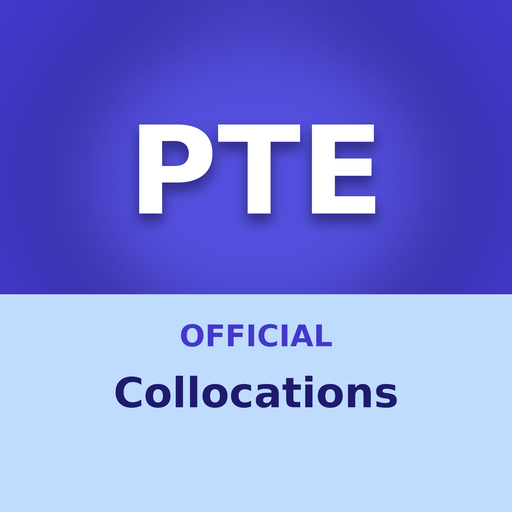
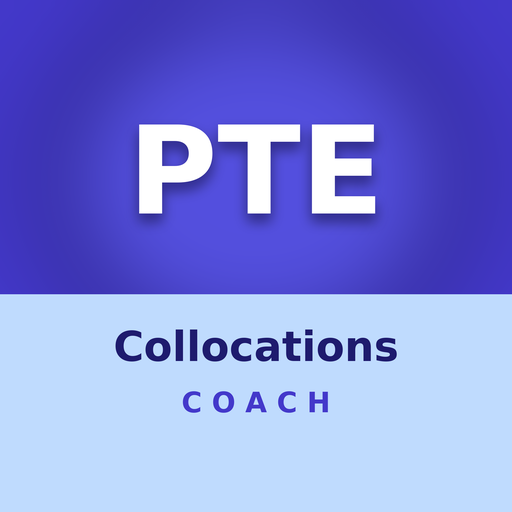
Add files via upload

Changed region(s): [[0.2188, 0.625, 0.7812, 0.8125]]

diff --git a/collocations/index.html b/collocations/index.html
@@ -8,7 +8,7 @@
 <meta name="theme-color" content="#4338CA">
 <link rel="apple-touch-icon" href="icon-192.png">
 <meta name="apple-mobile-web-app-capable" content="yes">
-<title>PTE Official Collocations</title>
+<title>PTE Collocations Coach</title>
 <link rel="preconnect" href="https://fonts.googleapis.com">
 <link rel="preconnect" href="https://fonts.gstatic.com" crossorigin>
 <link href="https://fonts.googleapis.com/css2?family=Atkinson+Hyperlegible:wght@400;700&family=Bricolage+Grotesque:opsz,wght@12..96,500;12..96,700&display=swap" rel="stylesheet">
@@ -216,14 +216,14 @@ nav{justify-content:flex-start}nav button{flex:1;max-width:none;font-weight:700;
 <body>
 <div class="wrap">
 <header>
-  <h1><span class="a">PTE</span><span class="b">Official Collocations</span></h1>
+  <h1><span class="a">PTE</span><span class="b">Collocations Coach</span></h1>
   <button class="avatar" id="avatarBtn" aria-label="Open or close your profile"></button>
 </header>
 <nav id="nav" role="tablist">
   <button role="tab" data-tab="play" aria-selected="false">Play &amp; Learn</button>
 </nav>
 <main id="main"></main>
-<p class="tiny foot" style="margin-top:28px">PTE Official Collocations is an independent study app based on Pearson's Academic Collocation List (version 2/2025); it is not made by Pearson. Wrong options in the quizzes are words that are not paired in the list, so always pick the partner the list gives. <a href="privacy.html">Privacy policy</a> · <a href="delete-account.html">Delete your account</a></p>
+<p class="tiny foot" style="margin-top:28px">PTE Collocations Coach is an independent study app based on Pearson's Academic Collocation List (version 2/2025); it is not made by Pearson. Wrong options in the quizzes are words that are not paired in the list, so always pick the partner the list gives. <a href="privacy.html">Privacy policy</a> · <a href="delete-account.html">Delete your account</a></p>
 </div>
 <script src="firebase-config.js" onerror="void 0"></script>
 <script src="https://cdn.jsdelivr.net/npm/firebase@12.19.0/firebase-app-compat.js"></script>
@@ -692,7 +692,7 @@ function busy(btn,on,label){btn.disabled=on;if(label)btn.textContent=label;}
 const val=id=>document.getElementById(id).value.trim();
 
 function showLogin(note){
-  authShell(`<h2>Log in</h2><p class="muted">Welcome to PTE Official Collocations. Log in to keep your progress on every device.</p>
+  authShell(`<h2>Log in</h2><p class="muted">Welcome to PTE Collocations Coach. Log in to keep your progress on every device.</p>
    ${!FB_CFG?`<div class="amsg">Accounts aren't connected yet, so you can't log in on this copy of the app. You can still use everything without an account.</div><button class="btn" id="guest" style="width:100%;margin-top:10px">Continue without an account</button>`:''}
    ${field('lid','User ID (your email)','email','autocomplete="username" inputmode="email"')}
    ${pwField('lpw','Password','current-password')}

diff --git a/collocations/privacy.html b/collocations/privacy.html
@@ -1,10 +1,10 @@
 <!DOCTYPE html><html lang="en"><head><meta charset="utf-8"><meta name="viewport" content="width=device-width,initial-scale=1"><meta name="color-scheme" content="light only">
 <style>body{font-family:"Segoe UI",Verdana,Arial,sans-serif;background:#F6F7FB;color:#111827;line-height:1.6;margin:0}main{max-width:760px;margin:0 auto;padding:24px 18px 60px}
 h1{font-size:28px;margin:0 0 4px}h2{font-size:20px;margin:28px 0 6px}a{color:#4338CA}.box{background:#fff;border:1px solid #CBD5E1;border-radius:14px;padding:18px 20px}
-.tiny{color:#4B5563;font-size:14px}li{margin:4px 0}.back{display:inline-block;margin-bottom:14px}</style><title>Privacy policy · PTE Official Collocations</title></head><body><main>
+.tiny{color:#4B5563;font-size:14px}li{margin:4px 0}.back{display:inline-block;margin-bottom:14px}</style><title>Privacy policy · PTE Collocations Coach</title></head><body><main>
 <a class="back" href="./">‹ Back to the app</a>
-<div class="box"><h1>Privacy policy</h1><p class="tiny">PTE Official Collocations · Last updated: 29 September 2026</p>
-<p>PTE Official Collocations ("the app") is an independent study app for learning the collocations in Pearson's Academic Collocation List. It is not made by or connected to Pearson. This policy explains what information the app collects and how it is used.</p>
+<div class="box"><h1>Privacy policy</h1><p class="tiny">PTE Collocations Coach · Last updated: 29 September 2026</p>
+<p>PTE Collocations Coach ("the app") is an independent study app for learning the collocations in Pearson's Academic Collocation List. It is not made by or connected to Pearson. This policy explains what information the app collects and how it is used.</p>
 <h2>Information we collect</h2>
 <ul><li><b>Account details you give us:</b> first name, last name, email address, country code and mobile number, and your password (stored securely by Google Firebase; we never see it).</li>
 <li><b>Profile picture</b>, if you choose to add one.</li>

diff --git a/collocations/delete-account.html b/collocations/delete-account.html
@@ -1,9 +1,9 @@
 <!DOCTYPE html><html lang="en"><head><meta charset="utf-8"><meta name="viewport" content="width=device-width,initial-scale=1"><meta name="color-scheme" content="light only">
 <style>body{font-family:"Segoe UI",Verdana,Arial,sans-serif;background:#F6F7FB;color:#111827;line-height:1.6;margin:0}main{max-width:760px;margin:0 auto;padding:24px 18px 60px}
 h1{font-size:28px;margin:0 0 4px}h2{font-size:20px;margin:28px 0 6px}a{color:#4338CA}.box{background:#fff;border:1px solid #CBD5E1;border-radius:14px;padding:18px 20px}
-.tiny{color:#4B5563;font-size:14px}li{margin:4px 0}.back{display:inline-block;margin-bottom:14px}</style><title>Delete your account · PTE Official Collocations</title></head><body><main>
+.tiny{color:#4B5563;font-size:14px}li{margin:4px 0}.back{display:inline-block;margin-bottom:14px}</style><title>Delete your account · PTE Collocations Coach</title></head><body><main>
 <a class="back" href="./">‹ Back to the app</a>
-<div class="box"><h1>Delete your account</h1><p class="tiny">PTE Official Collocations</p>
+<div class="box"><h1>Delete your account</h1><p class="tiny">PTE Collocations Coach</p>
 <h2>In the app (fastest)</h2>
 <ol><li>Log in and tap your <b>profile picture</b> at the top right.</li><li>Tap <b>Delete my account</b>.</li><li>Enter your password, type DELETE and confirm.</li></ol>
 <p>Your account is deleted immediately.</p>

diff --git a/collocations/sw.js b/collocations/sw.js
@@ -1,4 +1,4 @@
-const C='collocations-v13';const CORE=['./','index.html','manifest.webmanifest','icon-192.png','icon-512.png'];
+const C='collocations-v14';const CORE=['./','index.html','manifest.webmanifest','icon-192.png','icon-512.png'];
 const CACHEABLE=u=>u.origin===location.origin||/fonts\.(googleapis|gstatic)\.com$|cdn\.jsdelivr\.net$/.test(u.hostname);
 self.addEventListener('install',e=>{e.waitUntil(caches.open(C).then(c=>c.addAll(CORE)));self.skipWaiting();});
 self.addEventListener('activate',e=>{e.waitUntil(caches.keys().then(ks=>Promise.all(ks.filter(x=>x!==C).map(x=>caches.delete(x)))));self.clients.claim();});

diff --git a/collocations/firebase-config.js b/collocations/firebase-config.js
@@ -1,4 +1,4 @@
-// Firebase web app config for PTE Official Collocations (project: pte-collocation)
+// Firebase web app config for PTE Collocations Coach (project: pte-collocation)
 window.FIREBASE_CONFIG = {
   apiKey: "AIzaSyDjY85ThTE3EJJfAaQffX4-qM4YTw9CocM",
   authDomain: "pte-collocation.firebaseapp.com",
